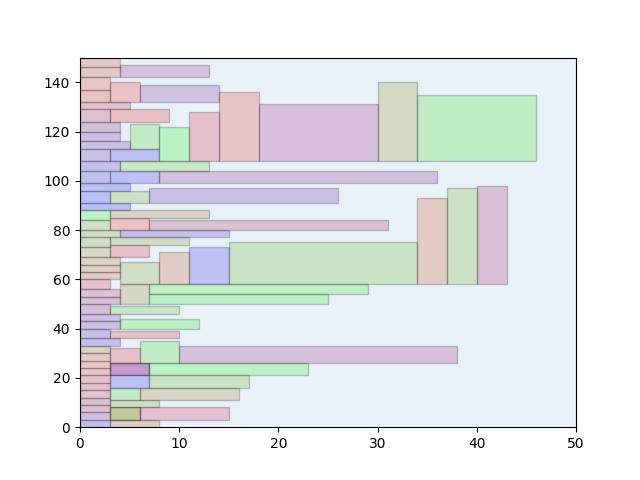
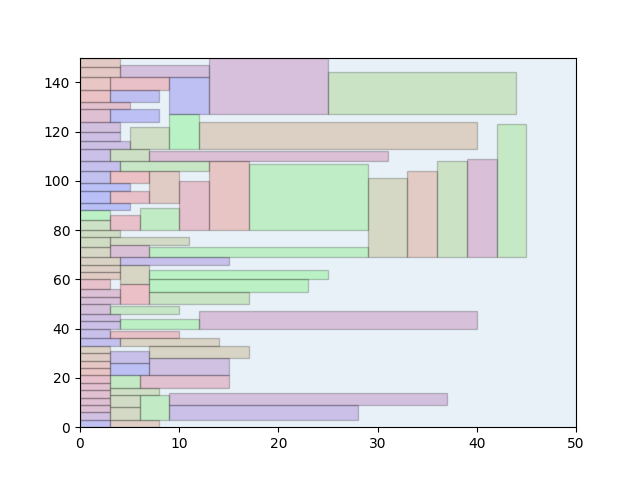
maybe fix problem with duplicated regions

Changed region(s): [[0.1562, 0.125, 0.8438, 0.875]]

diff --git a/src/model/ordered_queue.py b/src/model/ordered_queue.py
@@ -11,10 +11,23 @@ class OrderedQueue(list[T]):
                 self.append(item)
 
     def append(self, data: T) -> None:
-        for idx, item in enumerate(self):
-            if (data < item):
-                self.insert(idx, data)
-                return None
+        lim_inf: int = 0
+        lim_sup: int = len(self) - 1
+        while (lim_inf <= lim_sup):
+            idx: int = (lim_sup + lim_inf) // 2
+            if (data == self[idx]):
+                break
+            elif (data > self[idx]):
+                lim_inf = idx + 1
+            else:
+                lim_sup = idx - 1
+        else:
+            self.insert(lim_inf, data)
 
-        super().append(data)
+        # for idx, item in enumerate(self):
+        #     if (data < item):
+        #         self.insert(idx, data)
+        #         return None
+
+        # super().append(data)
         return None

diff --git a/src/model/region.py b/src/model/region.py
@@ -60,5 +60,10 @@ class Region:
     def __lt__(self, other: Region) -> bool:
         return (self._start < other.start)
 
+    def __eq__(self, other: Region | None) -> bool:
+        if other is None:
+            return False
+        return (self.start == other.start and self.end == other.end)
+
     def __repr__(self) -> str:
         return f"{self.start} {self.end}"

diff --git a/main.py b/main.py
@@ -71,5 +71,11 @@ def main(folder: str = "references/bkw") -> None:
     return None
 
 
+def test():
+    from src.model.ordered_queue import OrderedQueue
+    queue = OrderedQueue([1, 4, 3, 5, 2, 7, 10, 6, 9, 0, 11, 5])
+    print(queue)
+
+
 if __name__ == "__main__":
     main()
